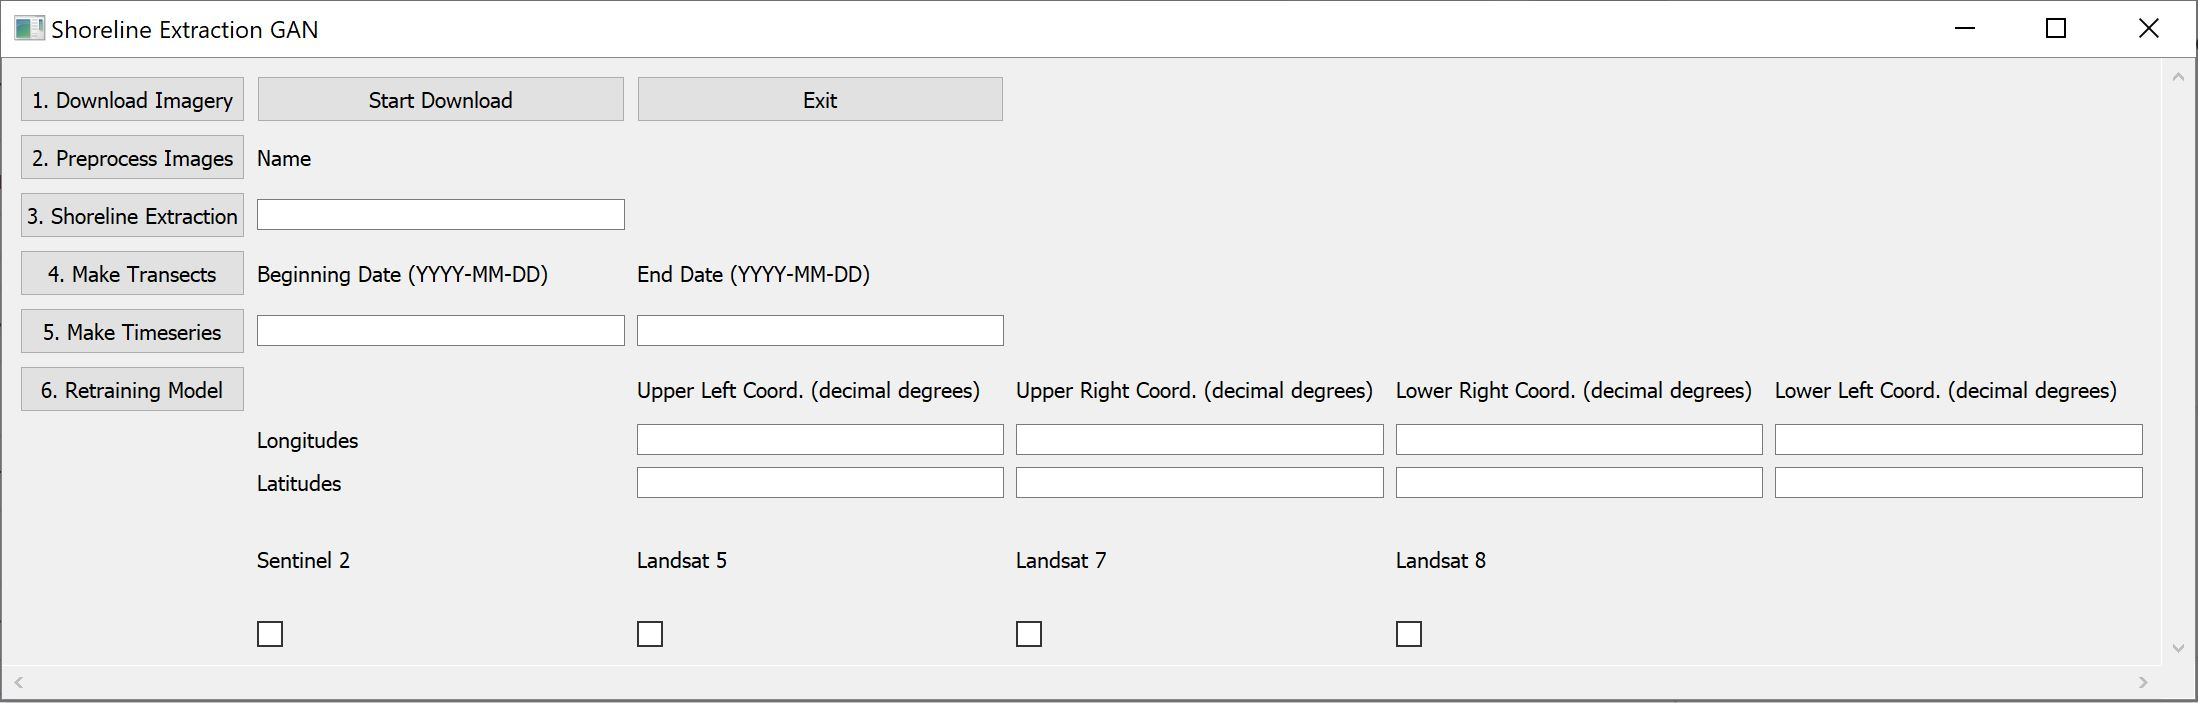
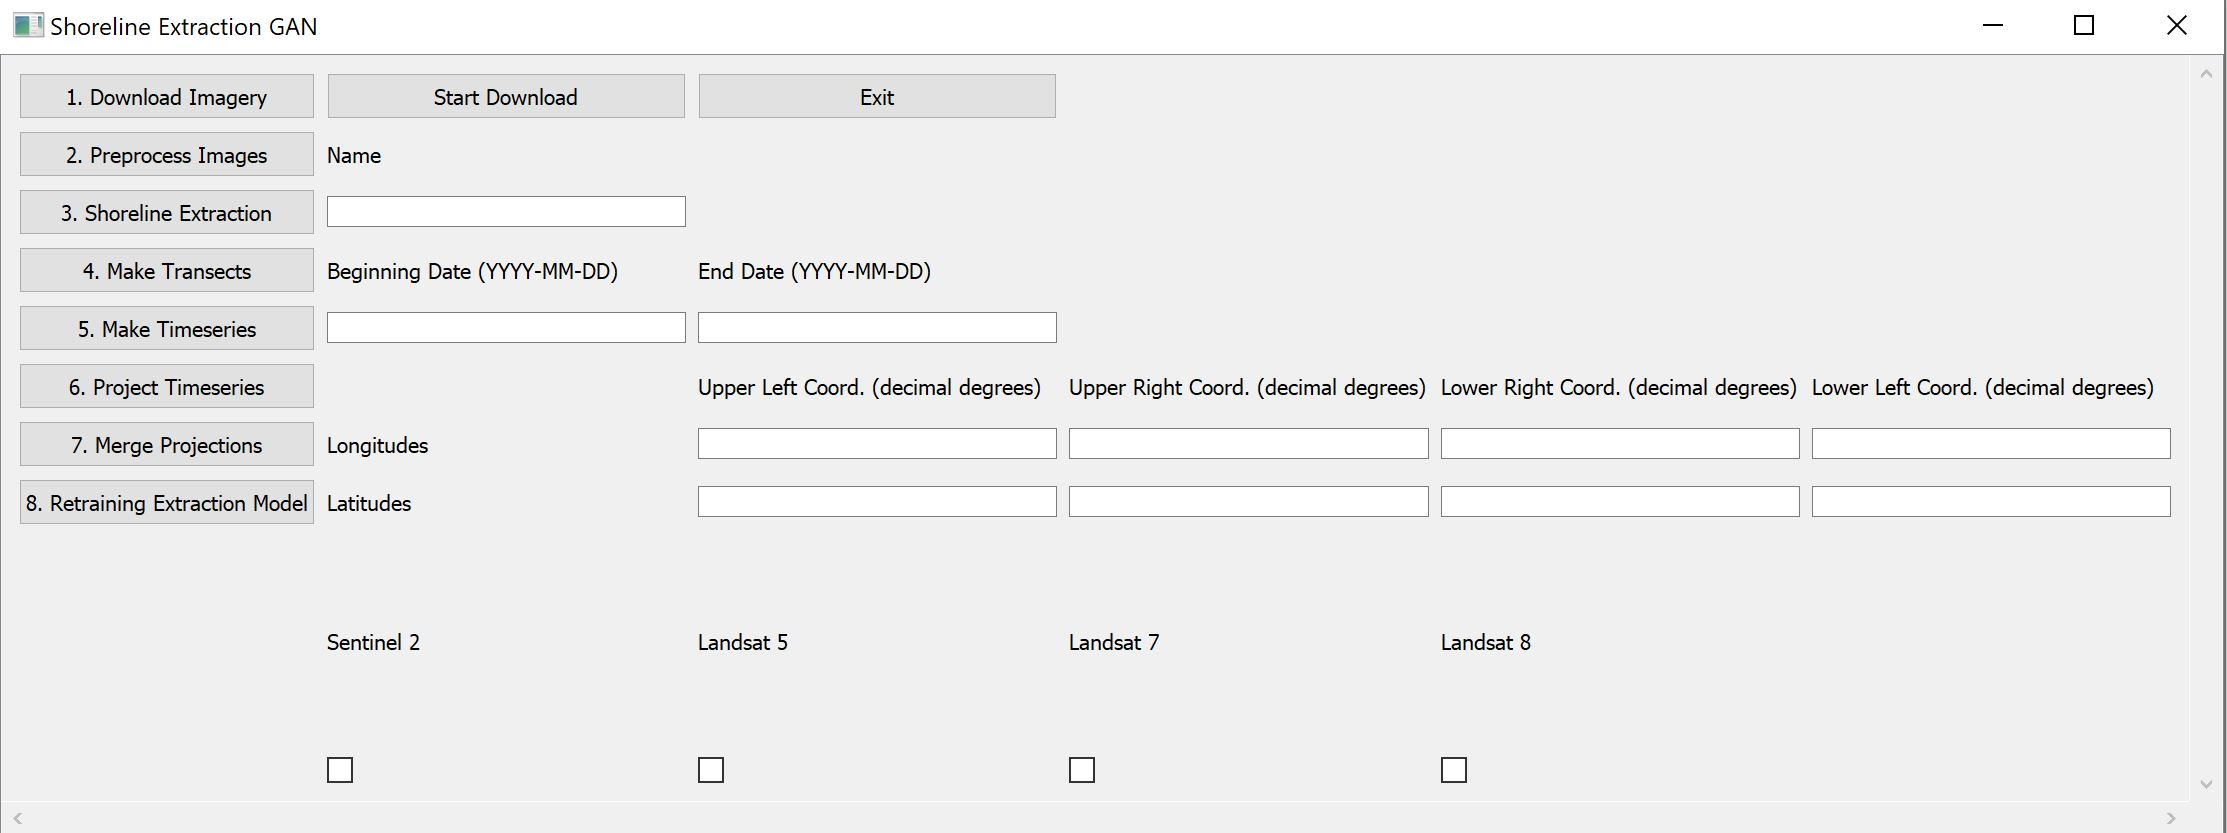
update readme

diff --git a/README.md b/README.md
@@ -188,6 +188,40 @@ Next, it will ask for your transect shapefile.
 Next, you need to tell it where to save the timeseries data. 
 Best to make a new directory to save this stuff (timeseries plots and csvs containing data for each transect) to.
 
+# Project Timeseries
+
+Hit Project Timeseries
+
+![project_timeseries](/images/project_timeseries_screen.JPG)
+
+Using LSTMs to project cross-shore positions into the future. 
+
+To use this tool, you should have a folder with all of the cross-shore timeseries for your study areas (defined by a transect number).
+You will need to input a site name, a starting and ending index (transect number to start and stop at), the number of epochs to train each LSTM for,
+the batch size for training the LSTM, the number of layers in the LSTM, the look-back value for the LSTM, the number of predictions, 
+and the number of times to repeat training to get a confidence interval for the projections. The default values have so far been good, but will
+depend upon the different datasets used. Fine-tuning of various values (epochs, batch size, layers, look-back values, predictions, repeats) 
+would be beneficial to get the best results. Currently, the LSTM is trained to project shorelines at 3-month intervals, so with a number of 
+predicitons equal to 40, it is projecting ten years from the last observed satellite shoreline (4 predictions per year, 40 predictions per ten years).
+
+Upon clicking Run, you will need to feed it the folder with the extracted timeseries, and then make a new folder to save the projections to.
+
+# Merge Projections
+
+Hit Merge Projections
+
+![merge_projections](/images/merge_projections_screen.JPG)
+
+This function will merge the timeseries projections into 2D shorelines and 95% confidence polygons for each projected time.
+
+Provide it the site name, the number of transects, the EPSG code for the coordinate system used (whatever EPSG code that corresponds to the study area's WGS84/UTM zone), and 
+whether or not the transects are running in the opposite direction of the water and need to be flipped.
+
+Upon clicking Run, you will need to feed it the folder holding the extracted timeseries, then the folder holding the projected timeseries, and then the shapefile holding the transects.
+It will save the two shapefiles (projected shorelines and projected confidence intervals) into the projected timeseries folder. It will also add northings and eastings as columns to each
+projected timeseries csv.
+
+
 # Retraining Model
 
 It is very possible that the area you are testing the model contains completely novel data for the GAN.
